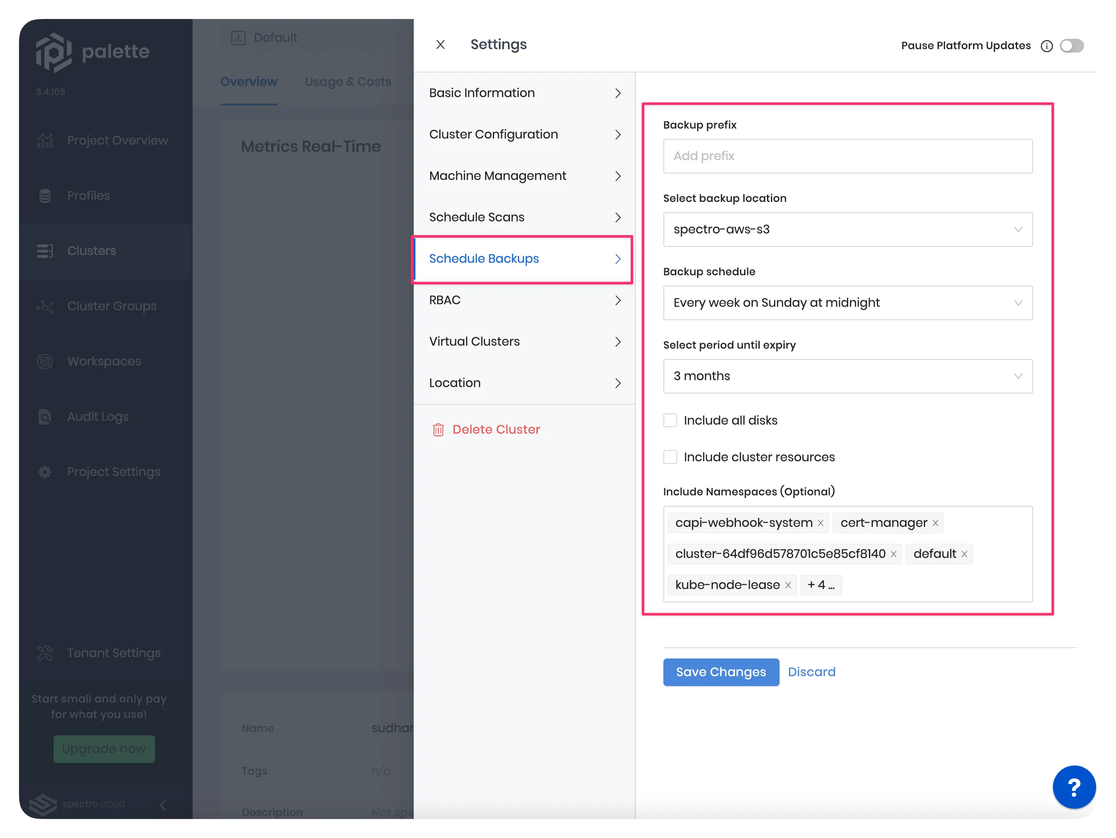
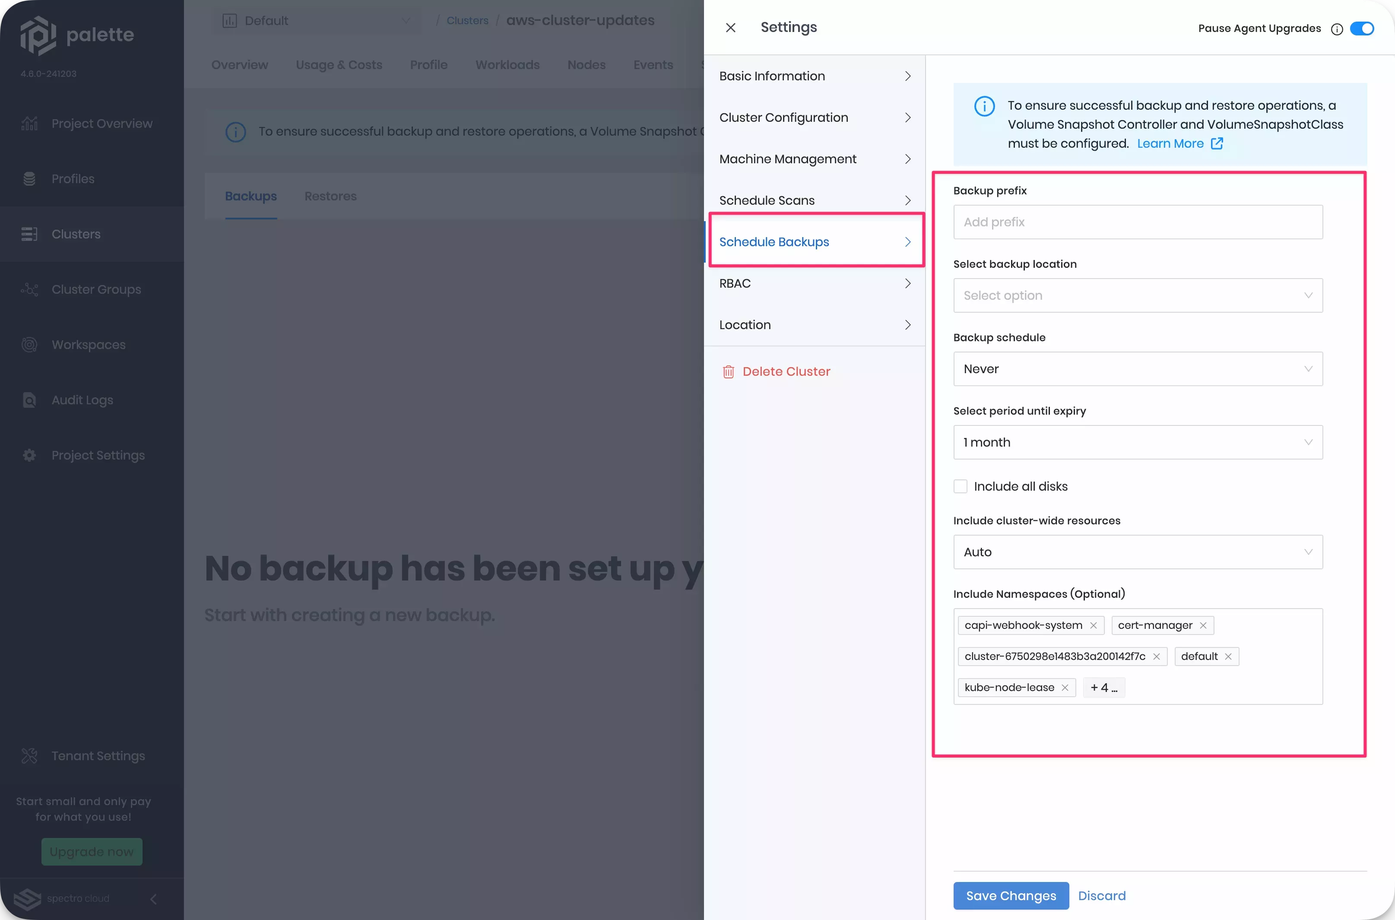
docs: add cluster-wide resources backup options PEM-5124 (#4860)
* docs: add cluster-wide resources backup options PEM-5124

* docs: add deletion policy flag PEM-5124

* docs: remove tabs

* Optimised images with calibre/image-actions

* Optimised images with calibre/image-actions

---------

diff --git a/docs/docs-content/clusters/cluster-management/backup-restore/create-cluster-backup.md b/docs/docs-content/clusters/cluster-management/backup-restore/create-cluster-backup.md
@@ -15,32 +15,21 @@ the source cluster.
 
 :::info
 
-Palette uses open source Velero to provide backup and restore capabilities. You can learn more about Velero by checking
-out their [Restore Reference](https://velero.io/docs/main/restore-reference) and
-[Backup Reference](https://velero.io/docs/main/backup-reference).
+Palette uses Velero to provide backup and restore capabilities. Check out their
+[Restore Reference](https://velero.io/docs/main/restore-reference) and
+[Backup Reference](https://velero.io/docs/main/backup-reference) to learn more about the project.
 
 :::
 
-You can schedule a cluster backup or initiate a backup on demand. You can define a backup schedule in the cluster
-configuration for an existing cluster or while deploying a cluster.
+You can schedule a cluster backup or initiate a backup on demand. You can define a backup schedule during cluster
+creation or in the cluster settings of an existing cluster.
 
 Palette supports scheduling recurring backups, with the ability to customize the frequency and the time. You can also
-specify the backup expiry period, meaning the duration, after which Palette will delete the backup automatically. For
+specify the backup expiry period, meaning the duration after which Palette will delete the backup automatically. For
 example, you can schedule a backup for every week on Sunday at midnight and automatically expire the backup after three
 months. Additionally, you can initiate a backup on demand for an existing cluster.
 
-The following sections will describe the prerequisites and the detailed instructions to create a cluster backup. You can
-schedule a backup or initiate a backup on demand.
-
-- [Schedule a Backup](#schedule-a-backup)
-
-- [On-demand Backup](#on-demand-backup)
-
-<br />
-
 ## Schedule a Backup
-
-Use the following instructions to schedule a backup for an existing cluster.
 
 ### Prerequisites
 
@@ -54,86 +43,99 @@ Use the following instructions to schedule a backup for an existing cluster.
 - If you want to include volume snapshots in the backup, ensure that your CSI driver supports volume snapshots. For more
   information about volume support, review the CSI pack README for your CSI driver in use. Refer to the [Volume Snapshots](backup-restore.md#volume-snapshots) section for more information.
 
-### Instructions
+   :::warning
+   
+   Ensure that `manifests.volume-snapshot-class.deletionPolicy` is set to the `Retain` value if you have configured <VersionedLink text="Volume Snapshot Controller" url="/integrations/packs/?pack=volume-snapshot-controller" /> as a layer in your cluster profile. This setting allows volume snapshot content to be retained when volume snapshots are deleted, facilitating backup and restore functionality. 
+
+   ```yaml hideClipboard {5}
+   volume-snapshot-class:
+      create: true
+      name: "spectro-volume-snapshot-class"
+      driver: ""
+      deletionPolicy: "Retain"
+   ```
+
+   :::
+
+### Enablement
 
 1. Log in to [Palette](https://console.spectrocloud.com/).
 
-2. Navigate to the left **Main Menu** and select **Clusters**.
+2. Navigate to the left **Main Menu**, and then select **Clusters**. The list of clusters appears.
 
-3. Select a cluster you want to back up. Ensure the cluster status is _Healthy_.
+3. Select a cluster you want to back up. The cluster **Overview** appears. Ensure the cluster status is _Healthy_.
 
-4. Click on the **Settings drop-down Menu** in the top right corner, and select **Cluster Settings**.
+4. Click on the **Settings Menu** in the top right corner, and select **Cluster Settings**. The **Settings** pane
+   appears.
 
-5. Next, on the **Settings Menu**, select the **Schedule Backups**. The screenshot below highlights the fields for
-   scheduling a backup.
-
-   <br />
+5. Select **Schedule Backups**. The backup configuration appears.
 
    ![A screenshot highlighting the fields for scheduling a backup for an existing cluster.](/clusters_cluster-management_backup-restore_scheduled-backup.webp)
 
-6. Fill out the required input fields to schedule a backup. Refer to the table to learn more about each input field.
+6. Fill out the required input fields to schedule a backup. Refer to the following table to learn more about each input
+   field.
 
-   | **Field**                         | **Description**                                                                                                                                                                                                 |
-   | --------------------------------- | --------------------------------------------------------------------------------------------------------------------------------------------------------------------------------------------------------------- |
-   | **Backup prefix**                 | Palette will generate a name automatically. Provide a prefix string you want to prepend to the auto-generated name.                                                                                             |
-   | **Select backup location**        | Choose a backup location. You must configure a location before creating a backup.                                                                                                                               |
-   | **Backup schedule**               | Create a backup schedule of your choice. You can review the scheduling options below the current table.                                                                                                         |
-   | **Select period until expiry**    | Select an expiry duration for the backups. Palette will delete the backup after the expiry duration.                                                                                                            |
-   | **Include all disks**             | Select this checkbox if you want to include all the disks in the backup.                                                                                                                                        |
-   | **Include cluster resources**     | Select the checkbox if you want Palette to back up the cluster-scoped and the namespace-scoped resources. However, if you do not select the checkbox, Palette will back up only the namespace-scoped resources. |
-   | **Include Namespaces** (Optional) | Palette will back up all namespaces by default. However, you can specify any namespaces you do not want backed up.                                                                                              |
+   | **Field**                          | **Description**                                                                                                                          |
+   | ---------------------------------- | ---------------------------------------------------------------------------------------------------------------------------------------- |
+   | **Backup prefix**                  | Palette will generate a name automatically. Provide a prefix string you want to prepend to the auto-generated name.                      |
+   | **Select backup location**         | Choose a backup location. You must configure a location before creating a backup.                                                        |
+   | **Backup schedule**                | Create a backup schedule of your choice. Palette provides several scheduling options, including a fully customized date.                 |
+   | **Select period until expiry**     | Select an expiry duration for the backups. Palette will delete the backup after the expiry duration.                                     |
+   | **Include all disks**              | Select this checkbox if you want to include all the disks in the backup.                                                                 |
+   | **Include cluster-wide resources** | Select one the options from the dropdown. The available options are **Auto**, **Always** and **Never**. **Auto** is selected by default. |
+   | **Include Namespaces** (Optional)  | Palette will back up all namespaces by default. However, you can specify any namespaces you do not want backed up.                       |
 
-   <br />
+   :::info
 
-:::info
+   In Kubernetes, there are two types of resources: cluster-scoped and namespace-scoped.
 
-    In Kubernetes, there are two types of resources: cluster-scoped and namespace-scoped.
+   Cluster-scoped resources, such as StorageClasses, ClusterRoles, and others, are visible and accessible to all users
+   in the cluster, regardless of the namespaces.
 
-    Cluster-scoped resources, such as StorageClasses, ClusterRoles, and others, are visible and accessible to all users in the cluster, regardless of the namespaces.
+   Namespace-scoped resources, like Pods, Deployments, Services, and others, belong to a specific namespace and can only
+   be accessed by users with the necessary permissions.
 
-    Namespace-scoped resources, like Pods, Deployments, Services, and others, belong to a specific namespace and can only be accessed by users with the necessary permissions.
+   :::
 
-:::
+   A cluster backup supports the following scheduling options:
 
-    <br />
+   - You can customize your backup to occur at a specific month, day, hour, and minute that suits your needs.
+   - Every week on Sunday at midnight
+   - Every two weeks at midnight
+   - Every month on the first at midnight
+   - Every two months on the first at midnight
+   - Never
 
-    A cluster backup supports the following scheduling options:
+   A cluster-wide backup operation of the source cluster can be configured using three options. The following table
+   summarizes the different options.
 
-    * You can customize your backup to occur at a specific month, day, hour, and minute that suits your needs.
-    * Every week on Sunday at midnight
-    * Every two weeks at midnight
-    * Every month on the first at midnight
-    * Every two months on the first at midnight
-    * Never
+   | **Backup Configuration** | **Description**                                                                                                                                                             |
+   | ------------------------ | --------------------------------------------------------------------------------------------------------------------------------------------------------------------------- |
+   | **Always**               | Include all cluster-wide resources regardless of any selected namespaces. This option is designed for restore operations to be performed exclusively on the source cluster. |
+   | **Auto**                 | Include persistent volumes that are linked to claims within the selected namespaces, but exclude cluster-wide resources. This is the default option for new backups.        |
+   | **Never**                | Excludes all cluster-wide resources, including persistent volumes.                                                                                                          |
 
-7. Click on the **Create Backup** button.
-
-You now have successfully created a scheduled backup for the selected cluster. You can view the status of the backup in
-the **Backups** tab.
+7. Click on **Save Changes**. Depending on the size of the cluster, the backup process may take some time to complete.
+   You can view the status of the backup in the **Backups** tab.
 
 ### Validate
 
-Use the following steps to validate creating a backup in Palette.
-
 1. Log in to [Palette](https://console.spectrocloud.com/).
 
-2. Navigate to the left **Main Menu**, and select **Clusters**.
+2. Navigate to the left **Main Menu**, and then select **Clusters**.
 
-3. Select the cluster from where you created the backup. Palette displays the details of the selected cluster.
+3. Select the cluster that you configured a backup for. The cluster **Overview** appears.
 
 4. Navigate to the **Backups** tab and click on the **Backups** nested tab. Palette displays a list of all available
-   backups for the current cluster, including the newly created one. The screenshot below shows an example backup. This
-   step validates that you have successfully created the backup.
+   backups for the current cluster, including the newly created one.
 
-![A screenshot highlighting the list of available backups for the specific cluster.](/clusters_cluster-management_backup-restore_view-backup.webp)
+   ![A screenshot highlighting the list of available backups for the specific cluster.](/clusters_cluster-management_backup-restore_view-backup.webp)
 
 5. You can click on the newly created backup from the list to view its details. Palette displays the backup name,
    status, creation date, expiry date, list of backed-up namespaces, and a boolean field indicating whether the backup
    includes all disks and cluster-scoped resources.
 
-## On-demand Backup
-
-Use the following instructions to create an on-demand backup for an existing cluster.
+## On-Demand backup
 
 ### Prerequisites
 
@@ -141,9 +143,27 @@ Use the following instructions to create an on-demand backup for an existing clu
   [Add a Backup Location using Static Credentials](add-backup-location-static.md) or
   [Add a Backup Location using Dynamic Credentials](add-backup-location-dynamic.md).
 
-### Instructions
-
 - An active cluster in Palette.
+
+<!-- prettier-ignore -->
+- If you want to include volume snapshots in the backup, ensure that your CSI driver supports volume snapshots. For more
+  information about volume support, review the CSI pack README for your CSI driver in use. Refer to the [Volume Snapshots](backup-restore.md#volume-snapshots) section for more information.
+
+   :::warning
+   
+   Ensure that `manifests.volume-snapshot-class.deletionPolicy` is set to the `Retain` value if you have configured <VersionedLink text="Volume Snapshot Controller" url="/integrations/packs/?pack=volume-snapshot-controller" /> as a layer in your cluster profile. This setting allows volume snapshot content to be retained when volume snapshots are deleted, facilitating backup and restore functionality. 
+
+   ```yaml hideClipboard {5}
+   volume-snapshot-class:
+      create: true
+      name: "spectro-volume-snapshot-class"
+      driver: ""
+      deletionPolicy: "Retain"
+   ```
+
+   :::
+
+### Enablement
 
 1. Log in to [Palette](https://console.spectrocloud.com).
 
@@ -151,58 +171,57 @@ Use the following instructions to create an on-demand backup for an existing clu
 
 3. Select a cluster you want to back up. Ensure the cluster status is _Healthy_.
 
-4. Navigate to the **Backups** tab and click on the **Create Backup** button. The screenshot below shows the popup
-   window Palette opens to initiate an on-demand backup. <br /><br />
-
-   <br />
+4. Navigate to the **Backups** tab and click on the **Create Backup** button. The **Create Backup** window appears.
 
    ![A screenshot highlighting the fields for an on-demand backup for an existing cluster.](/clusters_cluster-management_backup-restore_ondemand-backup.webp)
 
 5. Use the following information to configure a scheduled backup.
 
-   | **Field**                         | **Description**                                                                                                                                                                                                                                                                                                                                                |
-   | --------------------------------- | -------------------------------------------------------------------------------------------------------------------------------------------------------------------------------------------------------------------------------------------------------------------------------------------------------------------------------------------------------------- |
-   | **Backup name**                   | Provide a name for the backup.                                                                                                                                                                                                                                                                                                                                 |
-   | **Select backup location**        | Choose a backup location. You must configure a backup location before creating a backup. Refer to the [Add a Backup Location using Static Credentials](add-backup-location-static.md) or [Add a Backup Location using Dynamic Credentials](add-backup-location-dynamic.md) guides to learn about adding a backup location using static or dynamic credentials. |
-   | **Select period until expiry**    | Select an expiry duration for the backup. The backup will be automatically removed after the expiry duration.                                                                                                                                                                                                                                                  |
-   | **Include all disks**             | Select this checkbox if you want to include PVs and volume snapshots in the backup.                                                                                                                                                                                                                                                                            |
-   | **Include cluster resources**     | Select the checkbox if you want to include cluster-scoped resources in the backup. If you do not select the checkbox, Palette will back up only the namespace-scoped resources.                                                                                                                                                                                |
-   | **Include Namespaces** (Optional) | Palette will back up all namespaces by default. However, you can specify namespaces you do not want backed up.                                                                                                                                                                                                                                                 |
+   | **Field**                          | **Description**                                                                                                                                                                                                                                                                                                                                                |
+   | ---------------------------------- | -------------------------------------------------------------------------------------------------------------------------------------------------------------------------------------------------------------------------------------------------------------------------------------------------------------------------------------------------------------- |
+   | **Backup name**                    | Provide a name for the backup.                                                                                                                                                                                                                                                                                                                                 |
+   | **Select backup location**         | Choose a backup location. You must configure a backup location before creating a backup. Refer to the [Add a Backup Location using Static Credentials](add-backup-location-static.md) or [Add a Backup Location using Dynamic Credentials](add-backup-location-dynamic.md) guides to learn about adding a backup location using static or dynamic credentials. |
+   | **Select period until expiry**     | Select an expiry duration for the backup. The backup will be automatically removed after the expiry duration.                                                                                                                                                                                                                                                  |
+   | **Include all disks**              | Select this checkbox if you want to include PVs and volume snapshots in the backup.                                                                                                                                                                                                                                                                            |
+   | **Include cluster-wide resources** | Select one the options from the dropdown. The available options are **Auto**, **Always** and **Never**. **Auto** is selected by default.                                                                                                                                                                                                                       |
+   | **Include Namespaces** (Optional)  | Palette will back up all namespaces by default. However, you can specify namespaces you do not want backed up.                                                                                                                                                                                                                                                 |
 
-   <br />
+   :::info
 
-:::info
+   In Kubernetes, there are two types of resources: cluster-scoped and namespace-scoped.
 
-    In Kubernetes, there are two types of resources: cluster-scoped and namespace-scoped.
+   Cluster-scoped resources, such as StorageClasses, ClusterRoles, and others, are visible and accessible to all users
+   in the cluster, regardless of the namespaces.
 
-    Cluster-scoped resources, such as StorageClasses, ClusterRoles, and others, are visible and accessible to all users in the cluster, regardless of the namespaces.
+   Namespace-scoped resources, like Pods, Deployments, Services, and others, belong to a specific namespace and can only
+   be accessed by users with the necessary permissions.
 
-    Namespace-scoped resources, like Pods, Deployments, Services, and others, belong to a specific namespace and can only be accessed by users with the necessary permissions.
+   :::
 
-:::
+   A cluster-wide backup operation of the source cluster can be configured using three options. The following table
+   summarizes the different options.
 
-    <br />
+   | **Backup Configuration** | **Description**                                                                                                                                                             |
+   | ------------------------ | --------------------------------------------------------------------------------------------------------------------------------------------------------------------------- |
+   | **Always**               | Include all cluster-wide resources regardless of any selected namespaces. This option is designed for restore operations to be performed exclusively on the source cluster. |
+   | **Auto**                 | Include persistent volumes that are linked to claims within the selected namespaces, but exclude cluster-wide resources. This is the default option for new backups.        |
+   | **Never**                | Excludes all cluster-wide resources, including persistent volumes.                                                                                                          |
 
-6. Click on the **Create Backup** button.
-
-You now have successfully created a backup for the selected cluster. Depending on the size of the cluster, the backup
-process may take some time to complete. You can view the status of the backup in the **Backups** tab.
+6. Click on the **Create Backup** button. Depending on the size of the cluster, the backup process may take some time to
+   complete. You can view the status of the backup in the **Backups** tab.
 
 ### Validate
 
-Use the following steps to validate creating a backup in Palette. <br />
-
 1. Log in to [Palette](https://console.spectrocloud.com/).
 
-2. Navigate to the left **Main Menu**, and select **Clusters**.
+2. Navigate to the left **Main Menu**, and then select **Clusters**.
 
-3. Select the cluster from where you created the backup. Palette displays the details of the selected cluster.
+3. Select the cluster that you configured a backup for. The cluster **Overview** appears.
 
 4. Navigate to the **Backups** tab and click on the **Backups** nested tab. Palette displays a list of all available
-   backups for the current cluster, including the newly created one. The screenshot below shows an example backup. This
-   step validates that you have successfully created the backup.
+   backups for the current cluster, including the newly created one.
 
-![A screenshot highlighting the list of available backups for the specific cluster.](/clusters_cluster-management_backup-restore_view-backup.webp)
+   ![A screenshot highlighting the list of available backups for the specific cluster.](/clusters_cluster-management_backup-restore_view-backup.webp)
 
 5. You can click on the newly created backup from the list to view its details. Palette displays the backup name,
    status, creation date, expiry date, list of backed-up namespaces, and a boolean field indicating whether the backup

diff --git a/docs/docs-content/clusters/cluster-management/backup-restore/backup-restore.md b/docs/docs-content/clusters/cluster-management/backup-restore/backup-restore.md
@@ -94,6 +94,17 @@ or
 [Add a Backup Location using Dynamic Credentials](/clusters/cluster-management/backup-restore/add-backup-location-dynamic)
 guide.
 
+### Backup Cluster Resources
+
+Palette backups are safe to restore to any cluster and include persistent data. A cluster-wide backup operation of the
+source cluster can be configured using three options. The following table summarizes the different options.
+
+| **Backup Configuration** | **Description**                                                                                                                                                             |
+| ------------------------ | --------------------------------------------------------------------------------------------------------------------------------------------------------------------------- |
+| **Always**               | Include all cluster-wide resources regardless of any selected namespaces. This option is designed for restore operations to be performed exclusively on the source cluster. |
+| **Auto**                 | Include persistent volumes that are linked to claims within the selected namespaces, but exclude cluster-wide resources. This is the default option for new backups.        |
+| **Never**                | Excludes all cluster-wide resources, including persistent volumes.                                                                                                          |
+
 ## Volume Snapshots
 
 <!-- prettier-ignore -->
